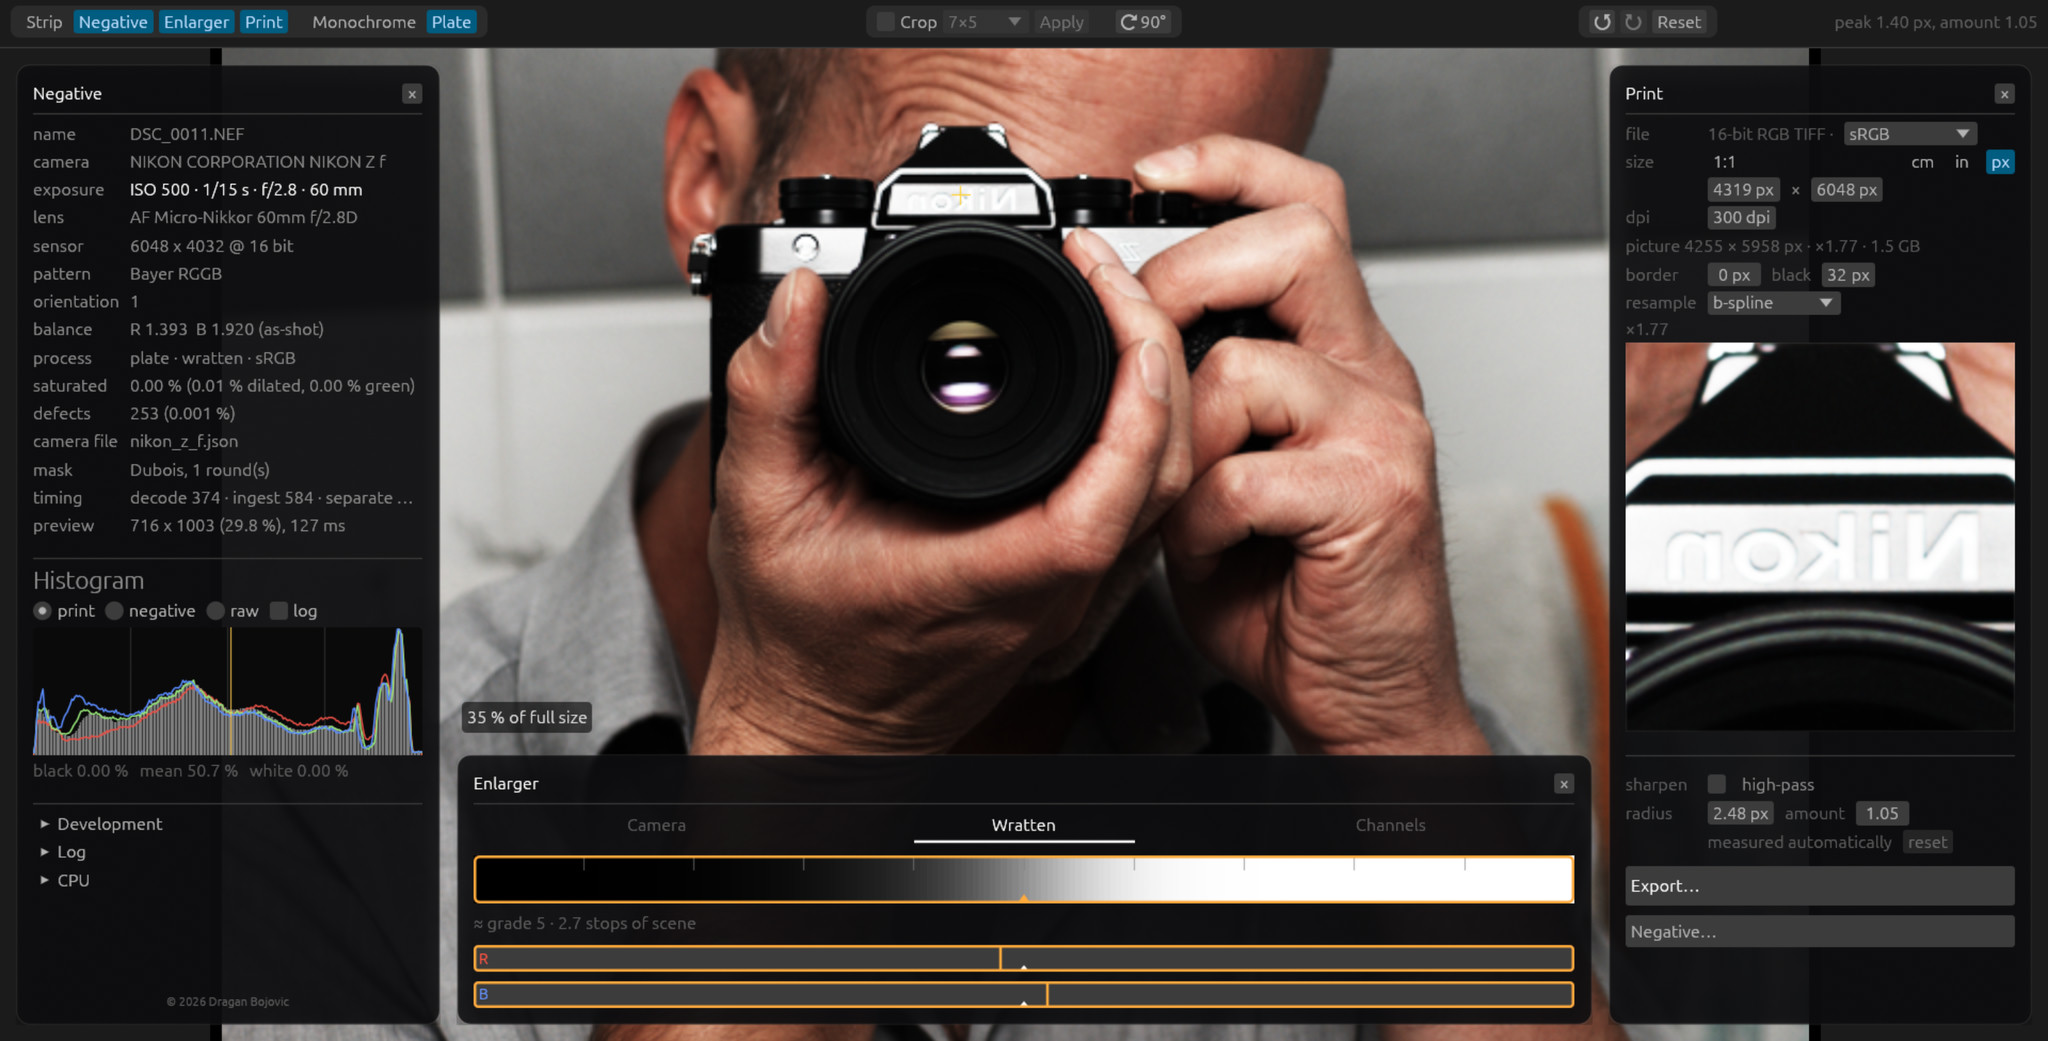
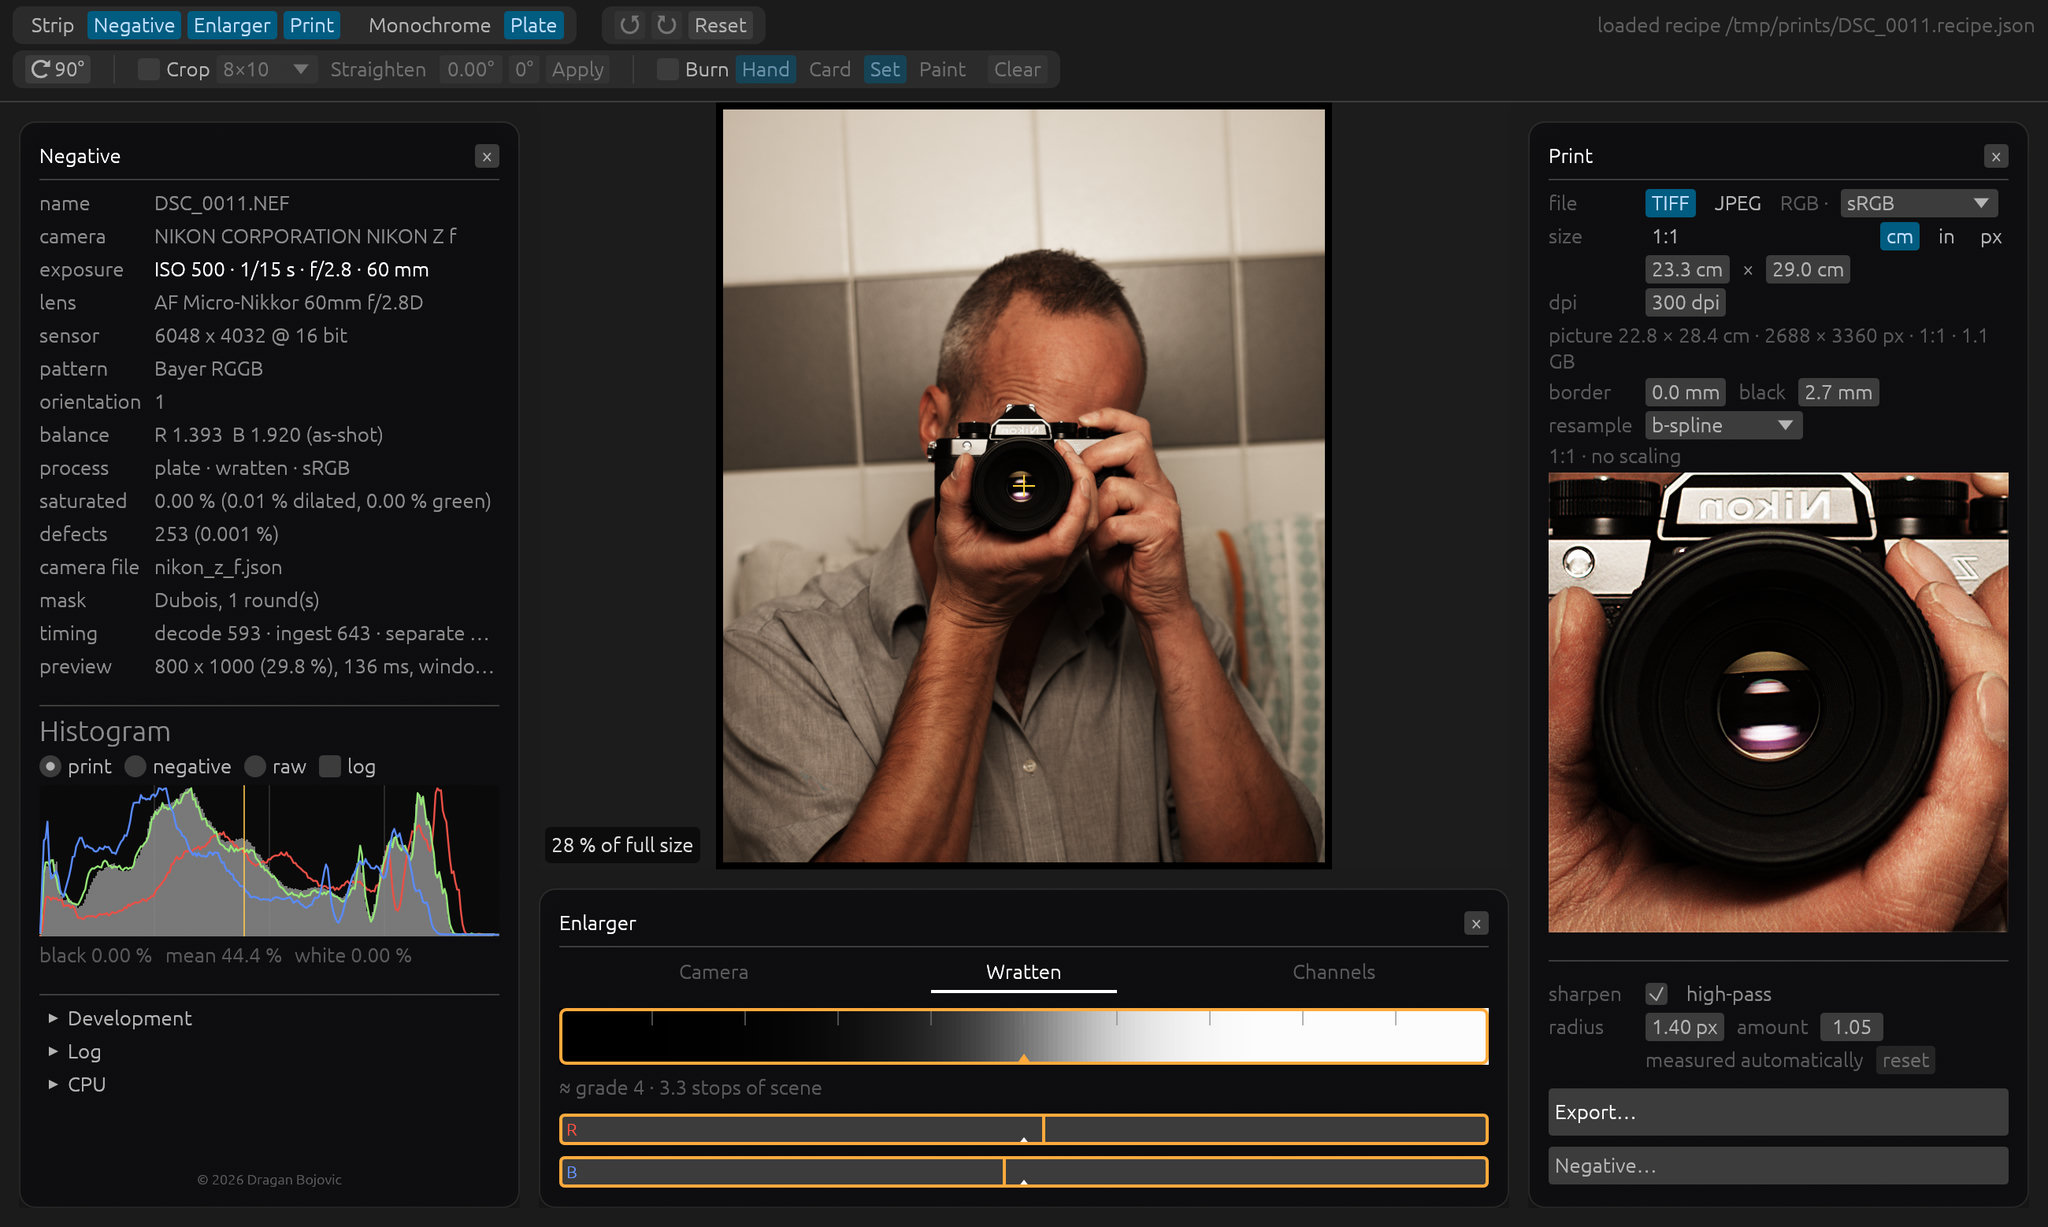
README: the window as it is in 0.18.7
The screenshot was of 7 November, before the straighten and the burn: its toolbar had one row and neither tool, while the text below it describes both. The new one is the same file in the plate process through the Wratten filters, cropped to 8×10, with the black edge, the two lamps a twelfth off zero and the sharpening on; the toolbar has its second row with the 90° turn, Crop, Straighten and Burn, and Print shows the choice between TIFF and JPEG. The caption names what is in it; the print is fitted, at 28 %, where the old one stood at 35 %.

Run: the window of 0.18.7 with its own unattended capture (MIMIZAN_SCREENSHOT, a window of 1300×800 points, scaled to 2048 px wide), settings and recipe in a scratch folder; the capture looked at before it went in.

diff --git a/README.md b/README.md
@@ -42,7 +42,7 @@ It is for analog photographers and fine-art printers who decide the print on the
 
 The name is the beach at Mimizan, where the idea came up watching the surf: separate the waves, and keep the picture underneath. Lab is the darkroom.
 
-![Mimizan Lab in the plate process: Dragan Bojovic with the Nikon Z f, the negative on the left, the colour print in the middle at 35 %, the Enlarger below with the taking filters, the paper strip and the two lamps, the sheet and its 1:1 box with the measured sharpening on the right](docs/gui.jpg)
+![Mimizan Lab in the plate process: Dragan Bojovic with the Nikon Z f. The toolbar with the two processes and, in its second row, the 90° turn, Crop, Straighten and Burn; the Negative window on the left with the file, its development and the histogram of the three channels; the colour print in the middle, fitted, with its black edge; the Enlarger below with the taking filters, the paper strip and the two lamps; Print on the right with the sheet, its 1:1 box and the sharpening](docs/gui.jpg)
 
 ## The negative
 
